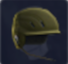
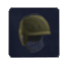
Added dynamic image swap functionality

diff --git a/src/ui/output.css b/src/ui/output.css
@@ -404,6 +404,18 @@
   .bg-\[url\(assets\/legSlot\.png\)\] {
     background-image: url(assets/legSlot.png);
   }
+  .bg-\[url\(assets\/locans-defense-helmet\.png\)\] {
+    background-image: url(assets/locans-defense-helmet.png);
+  }
+  .bg-\[url\(assets\/locans-ethereal-helmet\.png\)\] {
+    background-image: url(assets/locans-ethereal-helmet.png);
+  }
+  .bg-\[url\(assets\/locans-patrol-helmet\.png\)\] {
+    background-image: url(assets/locans-patrol-helmet.png);
+  }
+  .bg-\[url\(assets\/locans-pressured-helmet\.png\)\] {
+    background-image: url(assets/locans-pressured-helmet.png);
+  }
   .bg-\[url\(assets\/miscSlot\.png\)\] {
     background-image: url(assets/miscSlot.png);
   }
@@ -416,6 +428,15 @@
   .bg-\[url\(assets\/pp7Silx\.png\)\] {
     background-image: url(assets/pp7Silx.png);
   }
+  .bg-\[url\(assets\/pythica-mobile-infantry-helmet\.png\)\] {
+    background-image: url(assets/pythica-mobile-infantry-helmet.png);
+  }
+  .bg-\[url\(assets\/pythica-s1-helmet\.png\)\] {
+    background-image: url(assets/pythica-s1-helmet.png);
+  }
+  .bg-\[url\(assets\/pythica-special-operations-helmet\.png\)\] {
+    background-image: url(assets/pythica-special-operations-helmet.png);
+  }
   .bg-\[url\(assets\/resAmp\.png\)\] {
     background-image: url(assets/resAmp.png);
   }
@@ -424,6 +445,9 @@
   }
   .bg-\[url\(assets\/shouldersSlot\.png\)\] {
     background-image: url(assets/shouldersSlot.png);
+  }
+  .bg-\[url\(assets\/tactical-systems-helmet\.png\)\] {
+    background-image: url(assets/tactical-systems-helmet.png);
   }
   .bg-\[url\(assets\/torsoSelected\.png\)\] {
     background-image: url(assets/torsoSelected.png);
@@ -632,9 +656,9 @@
       background-image: url(assets/XL1LG.png);
     }
   }
-  .lg\:bg-\[url\(assets\/advanced-civilian-helmet\.pnglg\)\] {
+  .lg\:bg-\[url\(assets\/advanced-civilian-helmetlg\.png\)\] {
     @media (width >= 64rem) {
-      background-image: url(assets/advanced-civilian-helmet.pnglg);
+      background-image: url(assets/advanced-civilian-helmetlg.png);
     }
   }
   .lg\:bg-\[url\(assets\/armSlotLG\.png\)\] {
@@ -677,11 +701,6 @@
       background-image: url(assets/headSlotLG.png);
     }
   }
-  .lg\:bg-\[url\(assets\/infensus-x2-assault-helmet\.png\)\] {
-    @media (width >= 64rem) {
-      background-image: url(assets/infensus-x2-assault-helmet.png);
-    }
-  }
   .lg\:bg-\[url\(assets\/infensus-x2-assault-helmetlg\.png\)\] {
     @media (width >= 64rem) {
       background-image: url(assets/infensus-x2-assault-helmetlg.png);
@@ -695,6 +714,26 @@
   .lg\:bg-\[url\(assets\/legSlotLG\.png\)\] {
     @media (width >= 64rem) {
       background-image: url(assets/legSlotLG.png);
+    }
+  }
+  .lg\:bg-\[url\(assets\/locans-defense-helmetlg\.png\)\] {
+    @media (width >= 64rem) {
+      background-image: url(assets/locans-defense-helmetlg.png);
+    }
+  }
+  .lg\:bg-\[url\(assets\/locans-ethereal-helmetlg\.png\)\] {
+    @media (width >= 64rem) {
+      background-image: url(assets/locans-ethereal-helmetlg.png);
+    }
+  }
+  .lg\:bg-\[url\(assets\/locans-patrol-helmetlg\.png\)\] {
+    @media (width >= 64rem) {
+      background-image: url(assets/locans-patrol-helmetlg.png);
+    }
+  }
+  .lg\:bg-\[url\(assets\/locans-pressured-helmetlg\.png\)\] {
+    @media (width >= 64rem) {
+      background-image: url(assets/locans-pressured-helmetlg.png);
     }
   }
   .lg\:bg-\[url\(assets\/miscSlotLG\.png\)\] {
@@ -722,6 +761,21 @@
       background-image: url(assets/pp7XL.png);
     }
   }
+  .lg\:bg-\[url\(assets\/pythica-mobile-infantry-helmetlg\.png\)\] {
+    @media (width >= 64rem) {
+      background-image: url(assets/pythica-mobile-infantry-helmetlg.png);
+    }
+  }
+  .lg\:bg-\[url\(assets\/pythica-s1-helmetlg\.png\)\] {
+    @media (width >= 64rem) {
+      background-image: url(assets/pythica-s1-helmetlg.png);
+    }
+  }
+  .lg\:bg-\[url\(assets\/pythica-special-operations-helmetlg\.png\)\] {
+    @media (width >= 64rem) {
+      background-image: url(assets/pythica-special-operations-helmetlg.png);
+    }
+  }
   .lg\:bg-\[url\(assets\/resAmpLG\.png\)\] {
     @media (width >= 64rem) {
       background-image: url(assets/resAmpLG.png);
@@ -735,6 +789,11 @@
   .lg\:bg-\[url\(assets\/shouldersSlotLG\.png\)\] {
     @media (width >= 64rem) {
       background-image: url(assets/shouldersSlotLG.png);
+    }
+  }
+  .lg\:bg-\[url\(assets\/tactical-systems-helmetlg\.png\)\] {
+    @media (width >= 64rem) {
+      background-image: url(assets/tactical-systems-helmetlg.png);
     }
   }
   .lg\:bg-\[url\(assets\/torsoSelectedLG\.png\)\] {

diff --git a/tailwind.config.js b/tailwind.config.js
@@ -7,8 +7,24 @@ module.exports = {
       'bg-[url(assets/infensus-x2-assault-helmet.png)]',
       'lg:bg-[url(assets/infensus-x2-assault-helmetlg.png)]',
       'bg-[url(assets/advanced-civilian-helmet.png)]',
-      'lg:bg-[url(assets/advanced-civilian-helmet.pnglg)]',
+      'lg:bg-[url(assets/advanced-civilian-helmetlg.png)]',
       'bg-[url(assets/mt-27.png)]',
-      'lg:bg-[url(assets/mt-27lg.png)]'
+      'lg:bg-[url(assets/mt-27lg.png)]',
+      'bg-[url(assets/tactical-systems-helmet.png)]',
+      'lg:bg-[url(assets/tactical-systems-helmetlg.png)]',
+      'bg-[url(assets/locans-defense-helmet.png)]',
+      'lg:bg-[url(assets/locans-defense-helmetlg.png)]',
+      'bg-[url(assets/locans-ethereal-helmet.png)]',
+      'lg:bg-[url(assets/locans-ethereal-helmetlg.png)]',
+      'bg-[url(assets/locans-patrol-helmet.png)]',
+      'lg:bg-[url(assets/locans-patrol-helmetlg.png)]',
+      'bg-[url(assets/locans-pressured-helmet.png)]',
+      'lg:bg-[url(assets/locans-pressured-helmetlg.png)]',
+      'bg-[url(assets/pythica-special-operations-helmet.png)]',
+      'lg:bg-[url(assets/pythica-special-operations-helmetlg.png)]',
+      'bg-[url(assets/pythica-mobile-infantry-helmet.png)]',
+      'lg:bg-[url(assets/pythica-mobile-infantry-helmetlg.png)]',
+      'bg-[url(assets/pythica-s1-helmet.png)]',
+      'lg:bg-[url(assets/pythica-s1-helmetlg.png)]'
   ],
 };
